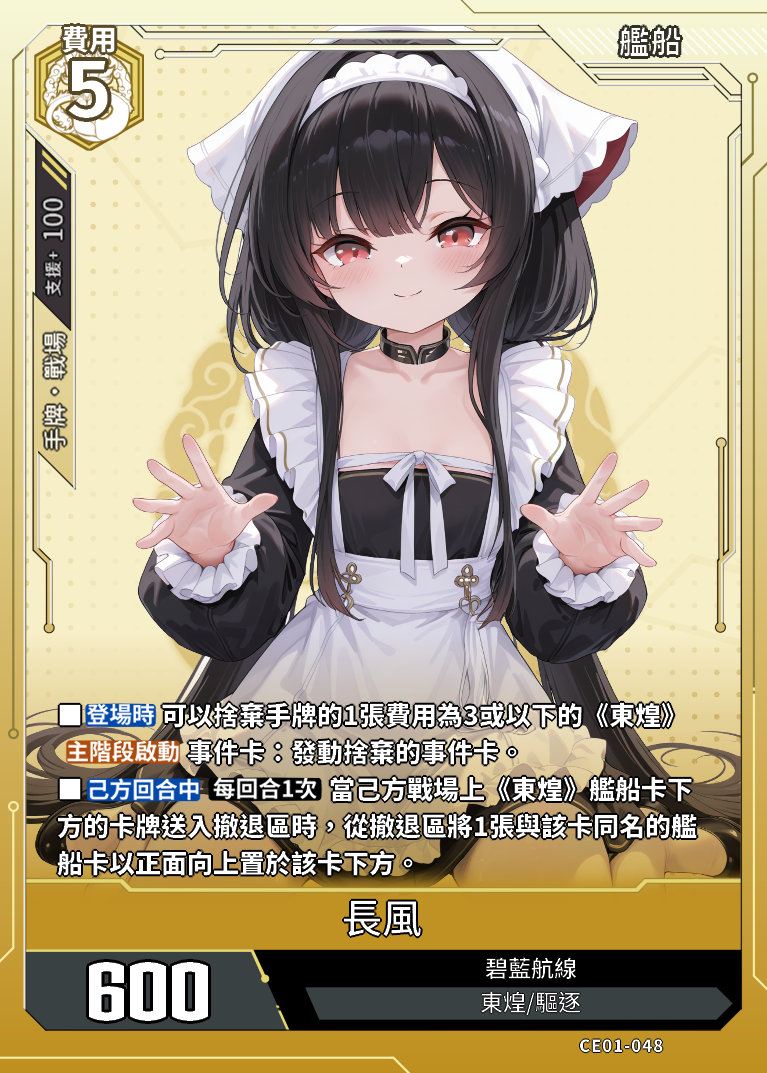
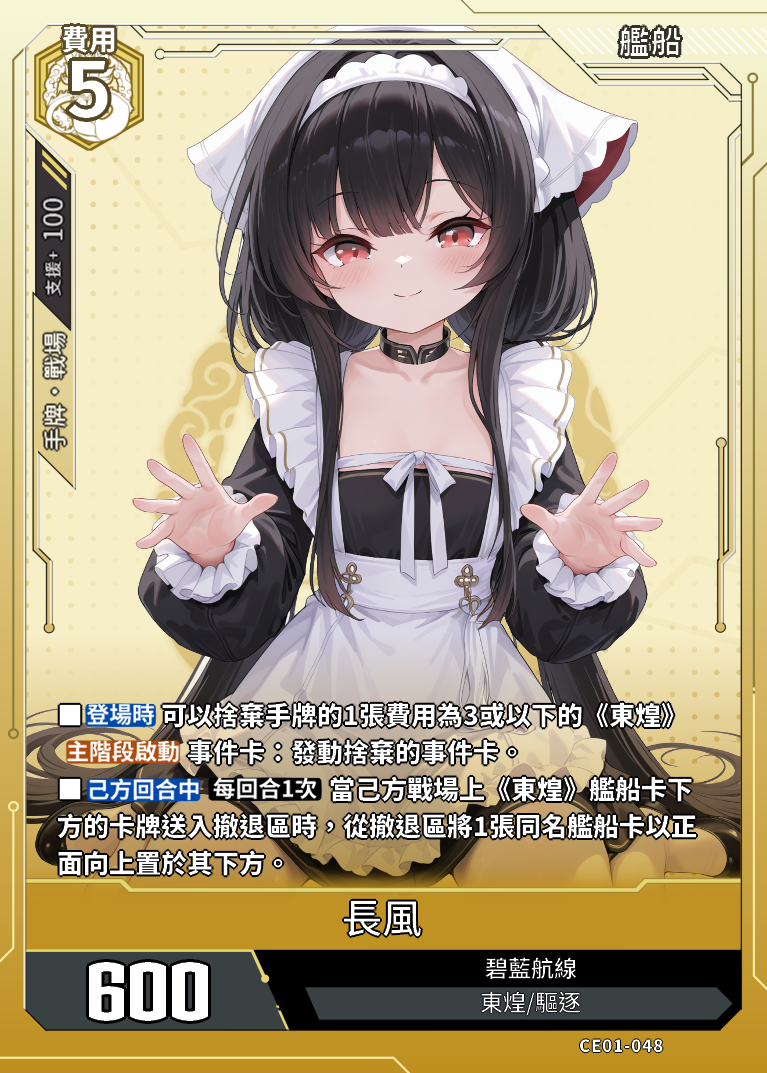
修正長風文本

Changed region(s): [[0.06, 0.7689, 0.5398, 0.8304], [0.6597, 0.7381, 0.9296, 0.7996]]

diff --git a/data.js b/data.js
@@ -22797,7 +22797,7 @@ const cards = [
             "支援範圍": "手牌·戰場",
             "支援值": "100"
         },
-        "card_effect": "■【登場時】可以捨棄手牌的1張費用為3或以下的《東煌》【主階段啟動】事件卡。若有執行此動作時，發動捨棄的事件卡。■【己方回合中】【每回合1次】當己方戰場上《東煌》艦船卡下方的卡牌送入撤退區時，從撤退區將1張與該卡同名的艦船卡以正面向上置於該卡下方。",
+        "card_effect": "■【登場時】可以捨棄手牌的1張費用為3或以下的《東煌》【主階段啟動】事件卡。若有執行此動作時，發動捨棄的事件卡。■【己方回合中】【每回合1次】當己方戰場上《東煌》艦船卡下方的卡牌送入撤退區時，從撤退區將1張同名艦船卡以正面向上置於其下方。",
         "acquisition_method": "CE01"
     },
 	{
